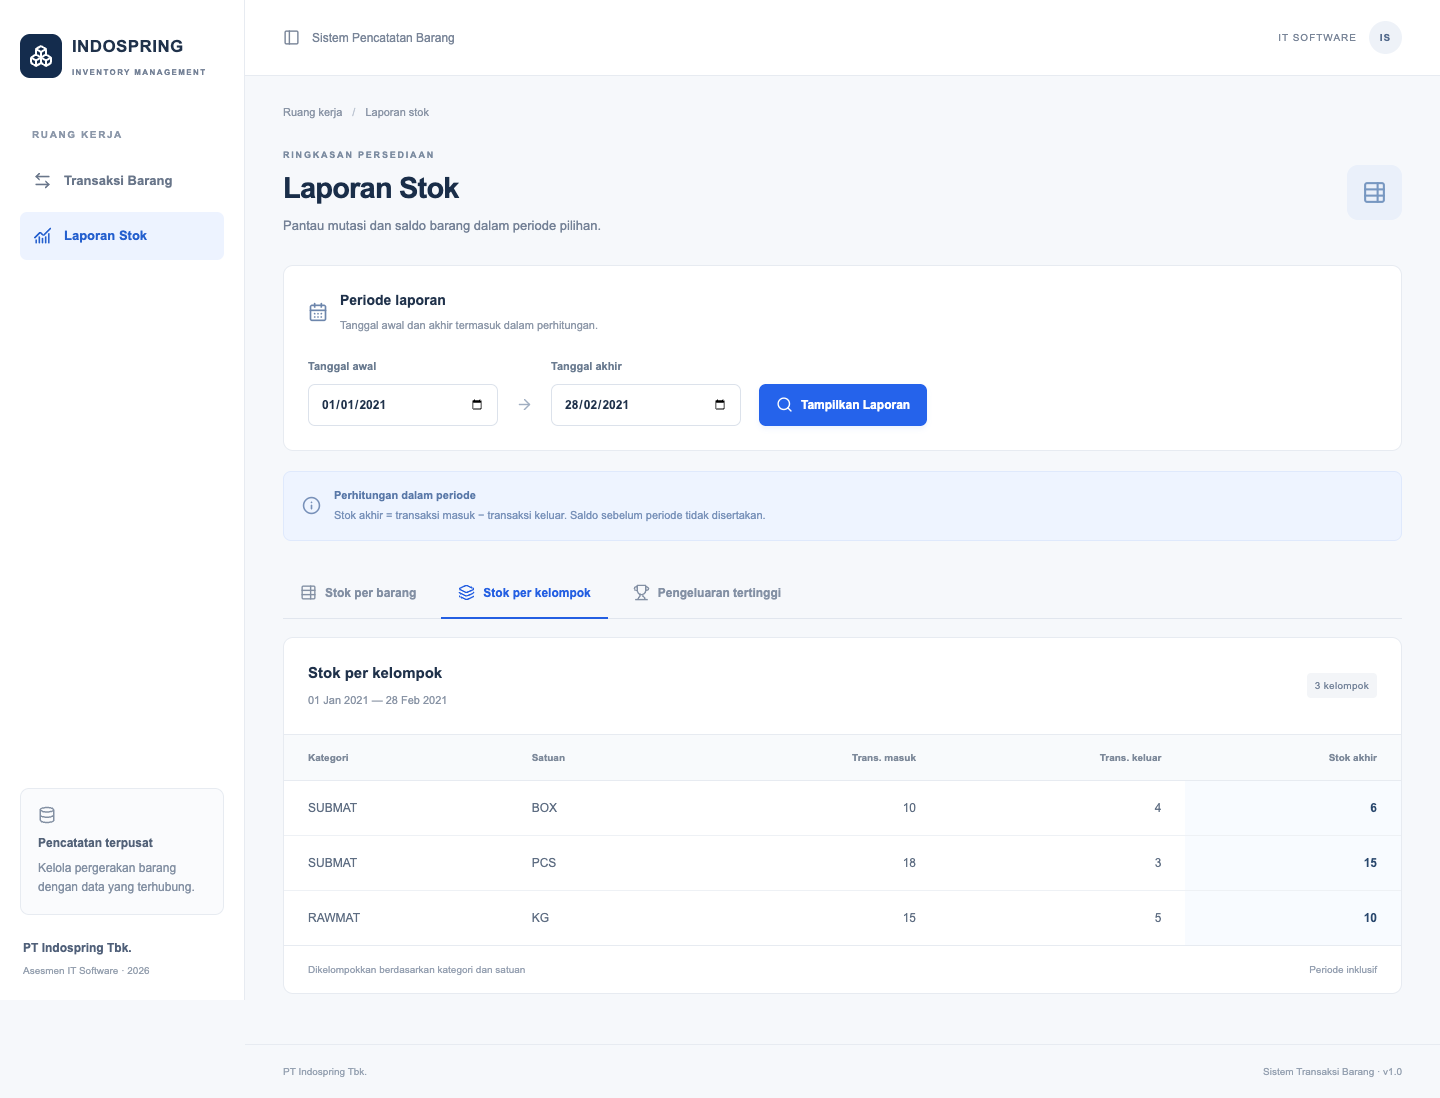
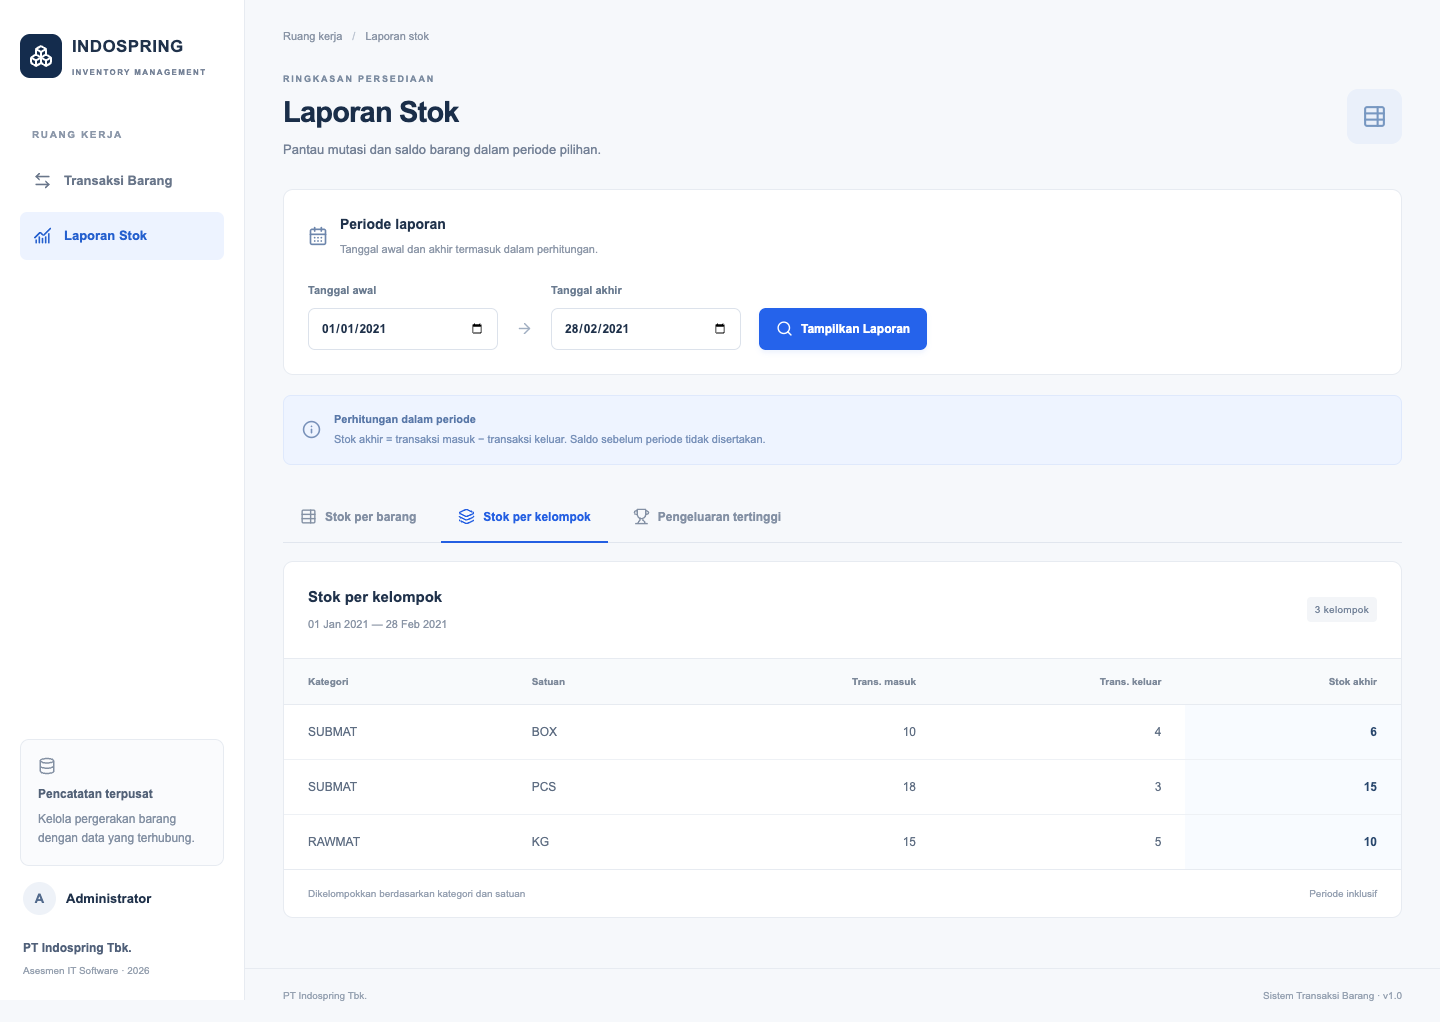
docs: update documentation and UI screenshots

diff --git a/docs/VERIFIKASI.md b/docs/VERIFIKASI.md
@@ -37,3 +37,9 @@ Screenshot berada di `docs/screenshots/`. Pengujian memakai database sementara t
 - SQL mandiri 3.1–3.3 diuji ulang dan tetap sesuai contoh. Query laporan menyaring header periode sebelum agregasi detail. Indeks tanggal/nomor menggantikan indeks tanggal tunggal; daftar indeks berisi tiga primary key dan satu indeks gabungan, tanpa duplikasi primary key.
 - EXPLAIN pada dataset contoh yang kecil memilih sequential scan untuk header, dan menggunakan primary key detail untuk join. Tidak dipaksakan penggunaan indeks atau diklaim hasil benchmark beban besar.
 - Tidak ada script/konfigurasi lint pada proyek, sehingga lint tidak dijalankan. Tidak ditambahkan library performa atau lint.
+
+## Pembaruan screenshot UI
+
+Pada 6 November 2026, enam screenshot di `docs/screenshots/` diperbarui dari build produksi lokal menggunakan Chrome headless: daftar transaksi, form tambah, tiga tab laporan, dan tampilan mobile. Build produksi beserta pemeriksaan TypeScript lulus.
+
+Pengambilan gambar memverifikasi tidak ada topbar, posisi Administrator di bawah panel Pencatatan terpusat pada desktop, serta tidak ada overflow halaman pada lebar mobile 390px. Desktop memakai viewport 1440 × 1000 dan mobile 390 × 844, dengan screenshot seluruh halaman. Browser tidak melaporkan error JavaScript. Form T006 diisi untuk dokumentasi lalu dibatalkan; data transaksi tidak diubah. Ini merupakan pemeriksaan tampilan, bukan pengulangan seluruh suite CRUD/API.

diff --git a/README.md b/README.md
@@ -227,10 +227,12 @@ docs/screenshots/    Bukti tampilan dari pengujian browser
 
 ## Screenshot
 
-Screenshot berikut merupakan hasil pengujian browser sebelumnya dan dapat masih memperlihatkan topbar sebelum perubahan UI terakhir. Jalankan ulang suite E2E pada database pengujian kosong untuk memperbaruinya.
+Screenshot diperbarui pada 6 November 2026 dari build produksi lokal: UI tanpa topbar, Administrator di bawah panel Pencatatan terpusat pada sidebar desktop, dan tampilan mobile. Data daftar serta laporan memakai lima transaksi contoh soal. Isian T006 pada screenshot form hanya contoh pengisian dan tidak disimpan.
 
 ![Form transaksi](docs/screenshots/form-transaksi.png)
 ![Daftar transaksi](docs/screenshots/daftar-transaksi.png)
 ![Laporan per barang](docs/screenshots/laporan-barang.png)
 ![Laporan per kelompok](docs/screenshots/laporan-kelompok.png)
 ![Pengeluaran tertinggi](docs/screenshots/laporan-tertinggi.png)
+
+![Tampilan mobile](docs/screenshots/mobile.png)
